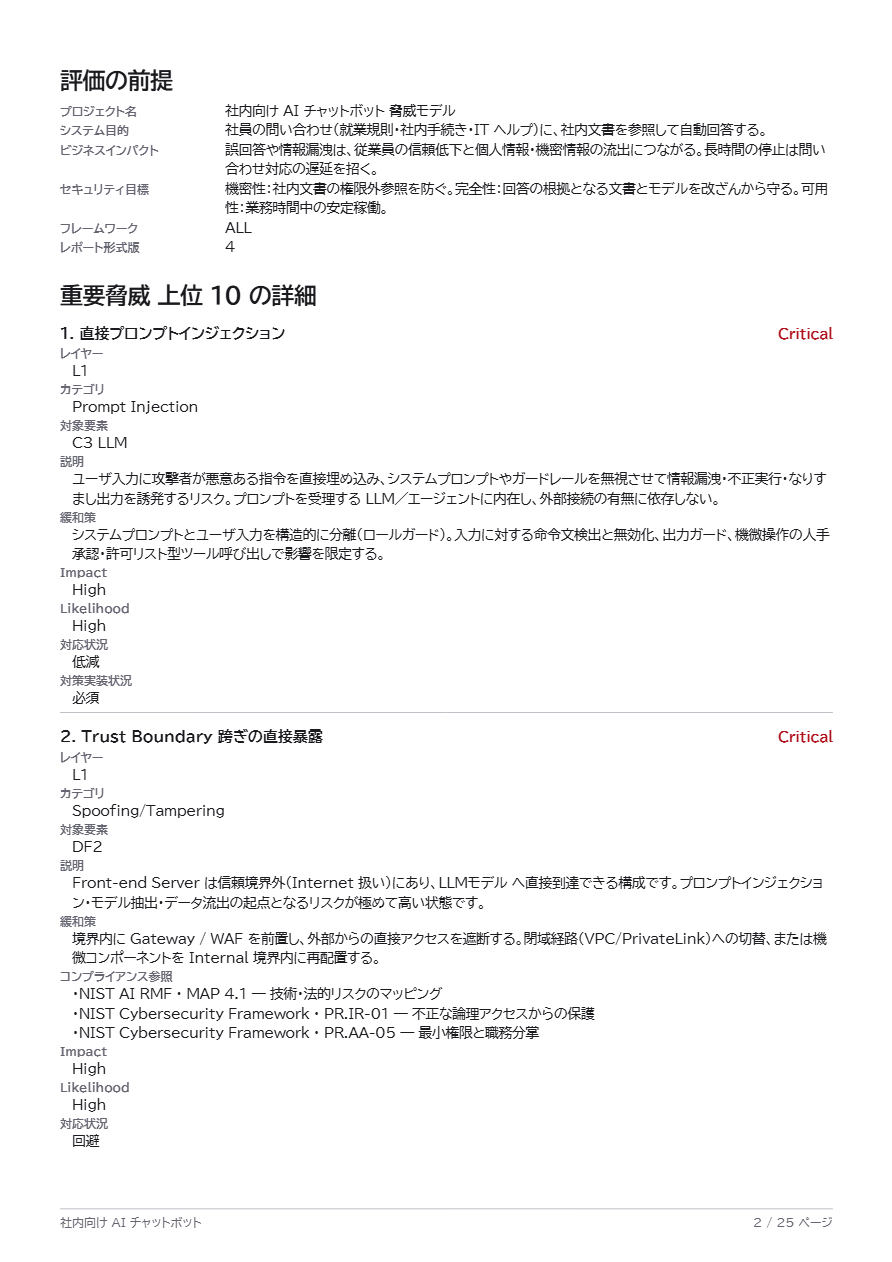
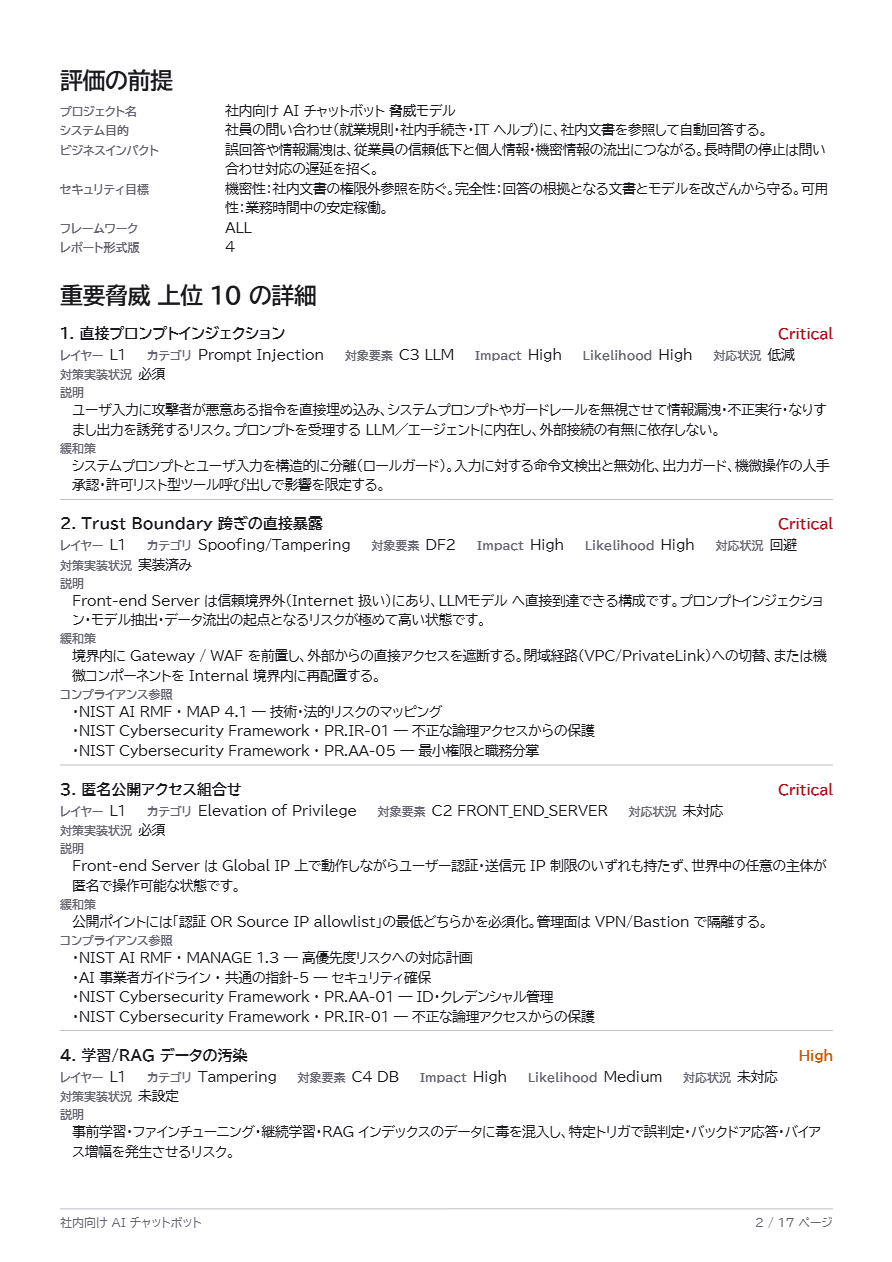
feat(export): PDF の詳細ブロックを圧縮してページ数を減らす
- 短い項目（レイヤー・カテゴリ・対象要素・Impact・Likelihood・対応状況・対策実装状況）を
  「ラベル 値」の横並びメタ行にまとめ、幅を超えたら次の行へ送る（純関数 flowInline ＋テスト）
- 長い項目（説明・緩和策・まず着手すべき対策・コンプライアンス参照・コメント）は従来どおり
- AI チャットボットの例で ja 25→17 頁、en 28→22 頁
- ガイドの PDF 画像（03〜06、日英）を撮り直し、頁数の記述を実態に合わせる

diff --git a/src/features/export/pdf/buildPdfReport.ts b/src/features/export/pdf/buildPdfReport.ts
@@ -8,7 +8,7 @@ import type { StandardId } from '../../../compliance/schema/complianceItem';
 import { translate, type Locale, type TranslationKey } from '../../../i18n';
 import { THREAT_REPORT_SCHEMA_VERSION, type ThreatReport, type ThreatReportRow } from '../threatReport';
 import { createFontSubsetter } from './fontSubset';
-import { createCursor, layoutTableRow, wrapText, type PageCursor } from './layout';
+import { createCursor, flowInline, layoutTableRow, wrapText, type PageCursor } from './layout';
 import {
   CONTROL_BUCKETS,
   SEVERITY_ORDER,
@@ -346,23 +346,48 @@ function detailBlock(ctx: Ctx, r: PreparedRow, t: T, top = false): void {
   });
   paragraph(ctx, `${r.no}. ${r.name}`, { font: ctx.bold, size: 10, lineHeight: 14, width: CONTENT_W - sevW - 10 });
   ctx.cursor.advance(1);
+  // 短い項目は「ラベル 値」の横並びメタ行にまとめる（幅を超えたら次の行へ）。
+  const metaRows = flowInline(
+    [
+      ...(top ? [{ label: t('report.pdf.detail.layer'), value: r.layer }] : []),
+      { label: t('report.pdf.detail.category'), value: r.category },
+      { label: t('report.pdf.detail.asset'), value: r.asset },
+      { label: t('report.pdf.detail.impact'), value: r.impact },
+      { label: t('report.pdf.detail.likelihood'), value: r.likelihood },
+      { label: t('report.pdf.detail.status'), value: r.status },
+      { label: t('report.pdf.detail.controlStatus'), value: r.controlStatus },
+    ],
+    CONTENT_W,
+    {
+      label: (s) => ctx.bold.widthOfTextAtSize(s, SMALL),
+      value: (s) => ctx.reg.widthOfTextAtSize(s, BODY),
+    },
+  );
+  for (const row of metaRows) {
+    need(ctx, BODY_LH);
+    const p = page(ctx);
+    const baseline = ctx.cursor.y - BODY;
+    for (const seg of row) {
+      let x = MARGIN_X + seg.x;
+      if (seg.label) {
+        p.drawText(seg.label, { x, y: baseline, size: SMALL, font: ctx.bold, color: MUTED });
+        x += ctx.bold.widthOfTextAtSize(seg.label, SMALL) + 4;
+      }
+      p.drawText(seg.text, { x, y: baseline, size: BODY, font: ctx.reg, color: INK });
+    }
+    ctx.cursor.advance(BODY_LH);
+  }
+  // 長い項目はラベル行＋本文。
   const field = (label: string, body: string) => {
     if (!body) return;
     need(ctx, BODY_LH * 2);
     paragraph(ctx, label, { font: ctx.bold, size: SMALL, lineHeight: 11, color: MUTED });
     paragraph(ctx, body, { x: MARGIN_X + 8 });
   };
-  if (top) field(t('report.pdf.detail.layer'), r.layer);
-  field(t('report.pdf.detail.category'), r.category);
-  field(t('report.pdf.detail.asset'), r.asset);
   field(t('report.pdf.detail.description'), r.description);
   field(t('report.pdf.detail.mitigation'), r.mitigation);
   if (top) field(t('report.pdf.detail.firstStep'), r.firstStep);
   field(t('report.pdf.detail.compliance'), r.compliance.map((c) => `・${c}`).join('\n'));
-  field(t('report.pdf.detail.impact'), r.impact);
-  field(t('report.pdf.detail.likelihood'), r.likelihood);
-  field(t('report.pdf.detail.status'), r.status);
-  field(t('report.pdf.detail.controlStatus'), r.controlStatus);
   field(t('report.pdf.detail.comments'), r.comments);
   need(ctx, 6);
   page(ctx).drawLine({

diff --git a/src/features/export/pdf/layout.test.ts b/src/features/export/pdf/layout.test.ts
@@ -1,5 +1,5 @@
 import { describe, expect, it } from 'vitest';
-import { createCursor, layoutTableRow, wrapText, type Measure } from './layout';
+import { createCursor, flowInline, layoutTableRow, wrapText, type Measure } from './layout';
 
 // 全角（CJK）= size、半角 = size / 2 の疑似フォント。
 const measure: Measure = (text, size) =>
@@ -57,5 +57,58 @@ describe('layoutTableRow', () => {
   it('maxLines を超えたら末尾に … を付けて打ち切る', () => {
     const r = layoutTableRow(['あいうえおかきくけこ'], [30], 10, 12, 5, 3, measure, 2);
     expect(r.lines[0]).toEqual(['あい', 'うえ…']);
+  });
+});
+
+describe('flowInline', () => {
+  const m = { label: (t: string) => measure(t, 8), value: (t: string) => measure(t, 10) };
+
+  it('幅に収まる項目は横に並べ、値の無い項目は出さない', () => {
+    const rows = flowInline(
+      [
+        { label: 'AB', value: 'xy' },
+        { label: 'CD', value: '' },
+        { label: 'EF', value: 'zz' },
+      ],
+      200,
+      m,
+      10,
+      4,
+    );
+    expect(rows).toHaveLength(1);
+    // 1 項目目：ラベル 8 + 4、値 10 → 幅 22。2 項目目は 22 + 10 の位置。
+    expect(rows[0]?.map((s) => [s.label, s.text, s.x])).toEqual([
+      ['AB', 'xy', 0],
+      ['EF', 'zz', 32],
+    ]);
+  });
+
+  it('幅を超える項目は次の行へ送る', () => {
+    const rows = flowInline(
+      [
+        { label: 'AB', value: 'xy' },
+        { label: 'CD', value: 'zz' },
+      ],
+      50,
+      m,
+      10,
+      4,
+    );
+    expect(rows).toHaveLength(2);
+    expect(rows[1]?.[0]?.x).toBe(0);
+  });
+
+  it('単独で行幅を超える値は折り返し、2 行目以降はラベルの右に揃える', () => {
+    const rows = flowInline([{ label: 'AB', value: 'あいうえおかきくけこ' }], 62, m, 10, 4);
+    // ラベル幅 12 → 値に使える幅 50 → 全角（10）5 文字/行
+    expect(rows.map((r) => r.map((s) => s.text))).toEqual([['あいうえお'], ['かきくけこ']]);
+    expect(rows[0]?.[0]?.label).toBe('AB');
+    expect(rows[1]?.[0]).toMatchObject({ x: 12 });
+    expect(rows[1]?.[0]?.label).toBeUndefined();
+  });
+
+  it('値中の改行は空白に畳む', () => {
+    const rows = flowInline([{ label: 'A', value: 'x\ny' }], 200, m);
+    expect(rows[0]?.[0]?.text).toBe('x y');
   });
 });

diff --git a/src/features/export/pdf/layout.ts b/src/features/export/pdf/layout.ts
@@ -143,3 +143,63 @@ export function layoutTableRow(
   const maxCount = Math.max(1, ...lines.map((l) => l.length));
   return { lines, height: maxCount * lineHeight + padY * 2 };
 }
+
+/** 横並びメタ行の 1 項目（ラベル＋値）。 */
+export interface InlineItem {
+  label: string;
+  value: string;
+}
+
+/** 配置済みの断片。`label` は項目の先頭行だけに付く。`x` は行頭からのオフセット。 */
+export interface InlineSegment {
+  x: number;
+  label?: string;
+  text: string;
+}
+
+export interface InlineMeasure {
+  label: (text: string) => number;
+  value: (text: string) => number;
+}
+
+/**
+ * 「ラベル 値」を横に並べ、`maxWidth` を超えたら次の行へ送る。値の無い項目は捨てる。
+ * 1 項目だけで行幅を超えるときは、その値を折り返す（2 行目以降はラベルの右に揃える）。
+ * 戻り値は行ごとの断片。
+ */
+export function flowInline(
+  items: readonly InlineItem[],
+  maxWidth: number,
+  measure: InlineMeasure,
+  gap = 14,
+  labelGap = 4,
+): InlineSegment[][] {
+  const rows: InlineSegment[][] = [];
+  let row: InlineSegment[] = [];
+  let x = 0;
+  const newRow = () => {
+    if (row.length > 0) rows.push(row);
+    row = [];
+    x = 0;
+  };
+  for (const item of items) {
+    const value = item.value.replace(/\s*\n\s*/g, ' ').trim();
+    if (!value) continue;
+    const labelW = measure.label(item.label) + labelGap;
+    const w = labelW + measure.value(value);
+    if (w > maxWidth) {
+      newRow();
+      const lines = wrapText(value, Math.max(1, maxWidth - labelW), 1, (t) => measure.value(t));
+      lines.forEach((text, i) => {
+        rows.push([i === 0 ? { x: 0, label: item.label, text } : { x: labelW, text }]);
+      });
+      continue;
+    }
+    if (row.length > 0 && x + gap + w > maxWidth) newRow();
+    if (row.length > 0) x += gap;
+    row.push({ x, label: item.label, text: value });
+    x += w;
+  }
+  newRow();
+  return rows;
+}

diff --git a/src/features/export/pdf/buildPdfReport.test.ts b/src/features/export/pdf/buildPdfReport.test.ts
@@ -173,6 +173,7 @@ describe('buildPdfReport', () => {
     const out = process.env.CRS_PDF_SAMPLE_OUT as string;
     const bytes = await buildPdfReport(input([layer('L0', 6), layer('L1', 18)]));
     fs.writeFileSync(out, bytes);
+    fs.writeFileSync(`${out}.en.pdf`, await buildPdfReport(input([layer('L0', 6), layer('L1', 18)], 'en')));
     const pages = await pageTexts(bytes);
     if (pages) fs.writeFileSync(`${out}.page1.txt`, pages[0] ?? '');
   });

diff --git a/guide/report-export.md b/guide/report-export.md
@@ -177,7 +177,7 @@ Check these before exporting.
 - **Glyphs missing from the font render as boxes.** Japanese text is embedded in BIZ UDPGothic,
   but characters it does not contain (some symbols, emoji) appear as squares.
 - **The PDF text is selectable and searchable.** It is embedded as text, not as an image.
-- **A PDF can run to dozens of pages even for one layer,** because the appendix holds every threat in
+- **A PDF can run to well over ten pages even for one layer,** because the appendix holds every threat in
   detail. As a rule, hand executives page 1 (the summary) and the top-10 details.
 
 ---
